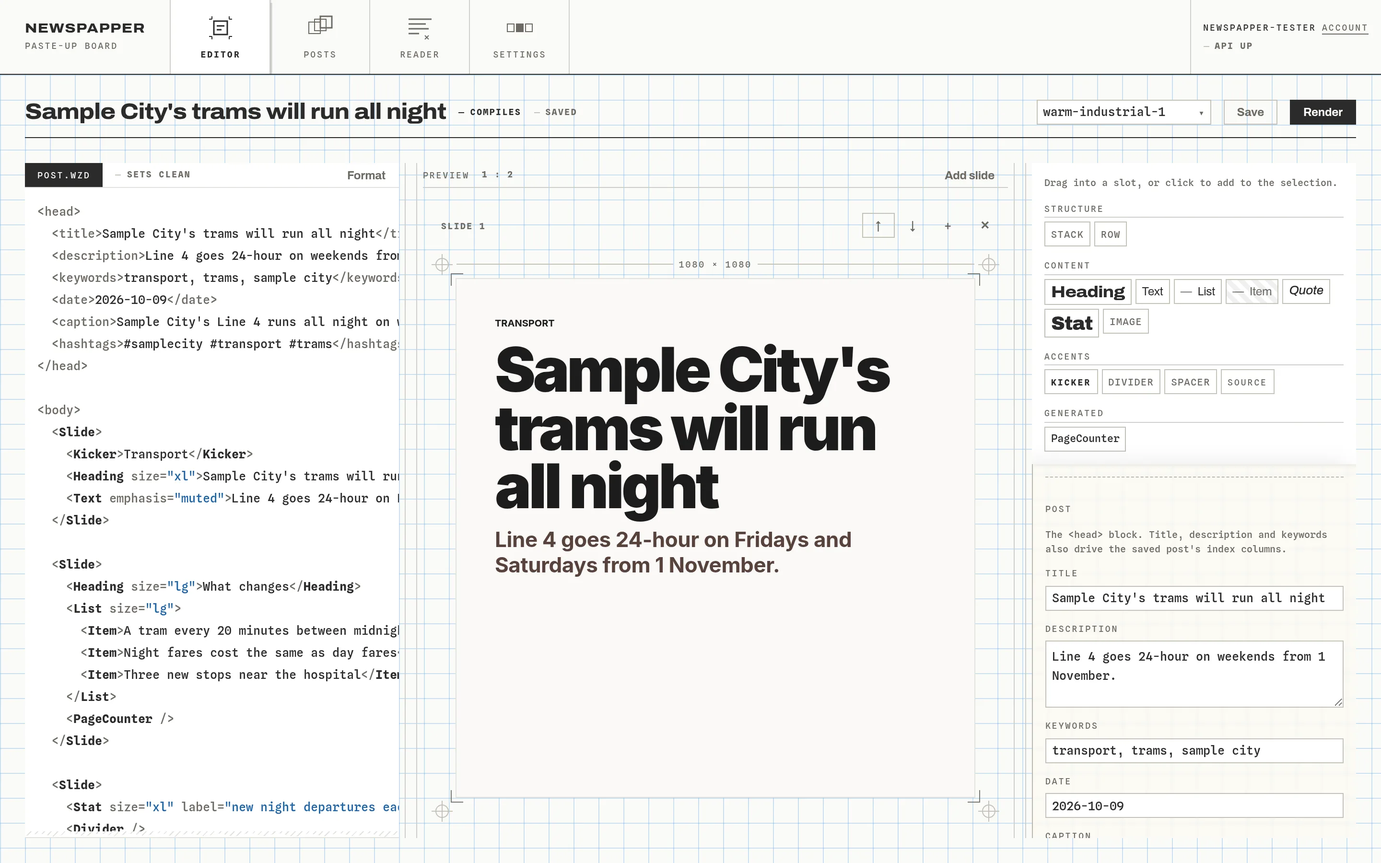
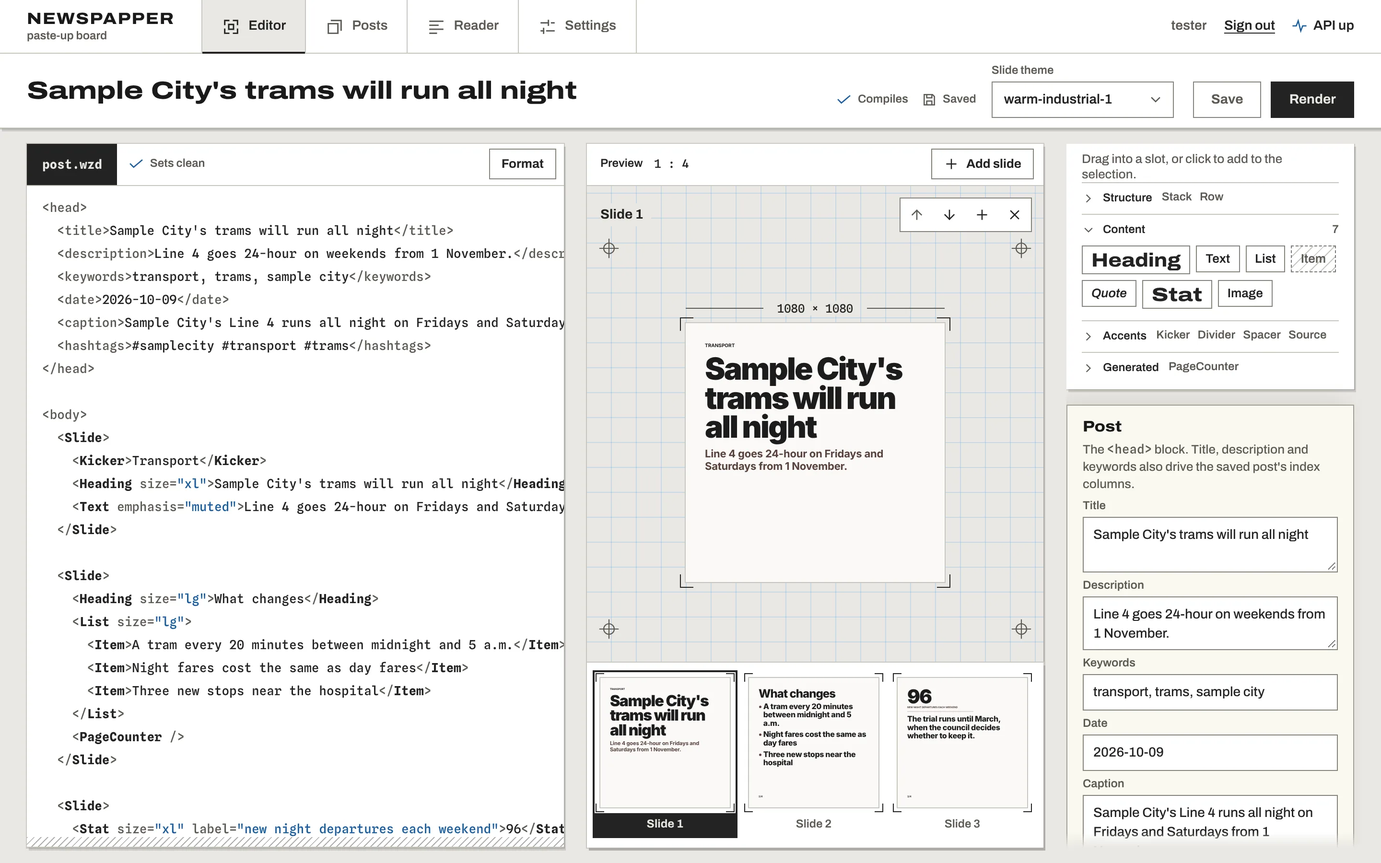
docs: refresh the README and its images after the Contact sheet redesign
- editor.webp, editing.gif and posts.webp retaken on the Contact sheet
  chrome; reader.webp added, with made-up feeds and items on example.test.
  slides.gif kept: the render is unchanged, and post 1 rendered again
  matched its frames.
- README: the stage-and-strip editor, the phone bottom bar, the session
  guard as it is since local accounts, an honest deploy status (the
  redesign and the API restructure are not deployed; the Reader's
  production state is not recorded), the e2e/ folder, and the renderer's
  browser install: `npx playwright` now runs @playwright/test 1.63, whose
  Chromium build the renderer's playwright 1.60 cannot use.
- making-a-post.md: the stage and strip, the phone tabs, the Reader
  screenshot, alt text for the new images.
- shots.md: every row re-dated, post 1's markup, the Reader's data, the
  six real feeds data/sources.json copies into a scratch database and how
  to drop them, the Playwright capture, and the GIF's new beats.

Claude-Session: https://claude.ai/code/session_01RnCo6KceG18CeLXhzKq2En

Changed region(s): [[0.0, 0.0, 1.0, 0.9956], [0.8438, 0.0, 1.0, 0.0622]]

diff --git a/docs/images/shots.md b/docs/images/shots.md
@@ -4,41 +4,92 @@ How each image was made, so the next refresh is a re-run. Re-take an image when 
 
 | File | Shows | How to reach that state | Viewport | Data | Taken |
 |---|---|---|---|---|---|
-| editor.webp | The editor with post 1 open, slide 1 on the canvas | see "Demo data", then open `/newspapper/?post=1` and reload so nothing is selected | 1440×900 @2x | made-up posts | 2026-10-09 |
-| editing.gif | Retyping slide 1's heading, then scrolling the preview to slides 2 and 3 | same post, at `/?post=1` on the dev server; recorded with a Chromium screencast, about 9 s (see "Capture") | 1280×800, scaled to 960 wide | made-up posts | 2026-11-07 |
-| posts.webp | The posts list with three cards, one published | `/newspapper/posts` after the demo posts are rendered and post 2 is published | 1440×700 @2x | made-up posts | 2026-10-09 |
+| editor.webp | The editor with post 1 open, slide 1 on the stage over the strip | see "Demo data", then open `/newspapper/?post=1` and reload so nothing is selected | 1440×900 @2x | made-up posts | 2026-11-16 |
+| editing.gif | Retyping slide 1's heading, then picking slides 2 and 3 from the strip | same post; recorded with a Chromium screencast, about 9 s (see "Capture") | 1280×800, scaled to 960 wide | made-up posts | 2026-11-16 |
+| posts.webp | The posts list with three cards, the middle one published | `/newspapper/posts` after the demo posts are rendered and post 2 is published | 1440×620 @2x | made-up posts | 2026-11-16 |
+| reader.webp | The Reader with five feeds, the unread items and item 1 open | `/newspapper/reader`, then click the first item | 1440×900 @2x | made-up feeds and items | 2026-11-16 |
 | slides.gif | The four JPEGs a render wrote for post 1, 1.6 s each | built from `output/<run>/slide-01.jpg` … `slide-04.jpg` with ffmpeg | 540×540 with a 1 px border | made-up posts | 2026-10-09 |
 
-> The chrome was redrawn on 2026-11-13 (the Contact sheet), so every image in the table above shows the old look and is stale until it is retaken. Screenshots of the new screens come from `e2e/shots.spec.ts` (`SHOTS_DIR=<folder> npx playwright test -c e2e/playwright.config.ts shots`), which runs on the stubbed API of `e2e/fixtures.ts` and needs none of the data below.
+All but `slides.gif` show the Contact sheet chrome of 2026-11-13. `slides.gif` shows the render, which the redesign did not touch: on 2026-11-16 post 1 rendered again from the markup below matched its frames.
+
+For comparing every screen in both themes and at phone width, `e2e/shots.spec.ts` takes them on the stubbed API of `e2e/fixtures.ts` (`SHOTS_DIR=<folder> npx playwright test -c e2e/playwright.config.ts shots`). Those fixtures list real outlets among their feed names, so they are not used for the README.
 
 ## Demo data
 
-The screenshots never use the owner's database or the old runs in `output/`. Those runs date from June 2026, before the Wizard rebuild: they are PNGs from the v3 pipeline, which had a model write the slides, and they name a real politician. So the captures use a throwaway database, filled by hand with made-up posts about "Sample City":
+The screenshots never use the owner's database or the old runs in `output/`. Those runs date from June 2026, before the Wizard rebuild: they are PNGs from the v3 pipeline, which had a model write the slides, and they name a real politician. So the captures use a throwaway database, filled with made-up content about "Sample City".
 
-1. Start the app against scratch paths, with the Reader's background refresh off so nothing fetches the real feeds:
+1. Start the app against scratch paths, with the Reader's background refresh off so nothing fetches a feed. Any free ports do: the UI's `--port` overrides the config, and `PUBLIC_ORIGIN` must name the UI's origin or sign-in is refused as cross-site.
 
    ```bash
-   NEWSPAPPER_DB_PATH=/tmp/np-demo/newspapper.db OUTPUT_DIR=/tmp/np-demo/output \
-   UPLOADS_DIR=/tmp/np-demo/uploads READER_REFRESH_MINUTES=0 npm run dev
+   export NEWSPAPPER_DB_PATH=/tmp/np-demo/newspapper.db OUTPUT_DIR=/tmp/np-demo/output \
+     UPLOADS_DIR=/tmp/np-demo/uploads READER_REFRESH_MINUTES=0 NEWSPAPPER_BASE=/newspapper/ \
+     PORT=3001 PUBLIC_ORIGIN=http://localhost:4321
+   npm run dev --workspace=api
+   npm run dev --workspace=ui -- --port 4321    # in a second terminal, same exports
    ```
 
-2. Sign in with a tester account, never the owner's: make one on the scratch database with `NEWSPAPPER_DB_PATH=/tmp/np-demo/newspapper.db SEED_USERNAME=tester SEED_PASSWORD=… npm run seed --workspace=api`. The header shows the account name, so it must be a tester's. (Until 2026-10-13 this step went through the local Ward.)
-3. Post 1 (`warm-industrial-1`): replace the starter document with a four-slide post titled "Sample City's trams will run all night" (a kicker and `xl` heading, a `lg` list of three items, an `xl` `Stat` of 96 with a divider and text, and a `Quote` with a `Source`). Press Render.
-4. Posts 2 and 3: "The central library opens on Sundays" (`warm-industrial-2`, two slides, rendered and published) and "Riverside Park reopens after flood repairs" (`warm-industrial-3`, two slides, rendered, left as a draft). Creating them through `POST /api/posts` from the signed-in page is quickest.
+   Render needs the Chromium of the `playwright` package (1.60), not the one `npx playwright` installs (1.63); see the main README.
+
+2. Sign in with a tester account, never the owner's. The header shows the account name, so it must be a tester's: `SEED_USERNAME=tester SEED_PASSWORD="$DEMO_PASS" npm run seed --workspace=api` with the same `NEWSPAPPER_DB_PATH`, where `DEMO_PASS` is a random value in your shell (`openssl rand -hex 12`), never in a file.
+3. Opening the database also copies `data/sources.json` into its `sources` table, because the seed runs for whatever file `NEWSPAPPER_DB_PATH` names. That list is the owner's real feeds. Delete those rows before any Reader shot: `DELETE FROM sources WHERE rss_url NOT LIKE '%.example.test/%'`.
+4. Post 1 (`warm-industrial-1`), rendered and left as a draft. This markup is what `editor.webp`, `editing.gif` and `slides.gif` show:
+
+   ```wzd
+   <head>
+     <title>Sample City's trams will run all night</title>
+     <description>Line 4 goes 24-hour on weekends from 1 November.</description>
+     <keywords>transport, trams, sample city</keywords>
+     <date>2026-10-09</date>
+     <caption>Sample City's Line 4 runs all night on Fridays and Saturdays from 1 November.</caption>
+     <hashtags>#samplecity #transport #trams</hashtags>
+   </head>
+
+   <body>
+     <Slide>
+       <Kicker>Transport</Kicker>
+       <Heading size="xl">Sample City's trams will run all night</Heading>
+       <Text emphasis="muted">Line 4 goes 24-hour on Fridays and Saturdays from 1 November.</Text>
+     </Slide>
+
+     <Slide>
+       <Heading size="lg">What changes</Heading>
+       <List size="lg">
+         <Item>A tram every 20 minutes between midnight and 5 a.m.</Item>
+         <Item>Night fares cost the same as day fares</Item>
+         <Item>Three new stops near the hospital</Item>
+       </List>
+       <PageCounter />
+     </Slide>
+
+     <Slide>
+       <Stat size="xl" label="new night departures each weekend">96</Stat>
+       <Divider />
+       <Text size="lg">The trial runs until March, when the council decides whether to keep it.</Text>
+       <PageCounter />
+     </Slide>
+
+     <Slide>
+       <Quote size="lg" by="Sample City Transit">We counted who waits for a tram at 2 a.m. Mostly nurses, bakers and cleaners.</Quote>
+       <Source>Sample City Transit, press note, 2026-10-09</Source>
+       <PageCounter />
+     </Slide>
+   </body>
+   ```
+
+5. Posts 2 and 3, two slides each in the same shape: "The central library opens on Sundays" (`warm-industrial-2`, keywords `libraries, sample city`, rendered and published) and "Riverside Park reopens after flood repairs" (`warm-industrial-3`, keywords `parks, sample city`, rendered, left as a draft). Creating and rendering all three through `POST /api/posts` and `POST /api/posts/:id/render`, with the session cookie from `POST /api/auth/login`, is quickest.
+6. The Reader: five made-up feeds on `example.test` (Harbour Post, Metro Times and Sample City Council under City, Green Notes under Environment, Tech Weekly under Tech) and fourteen made-up items about Sample City, inserted straight into `sources` and `feed_items`, three of them marked read. The first item, "Night trams: the council publishes the Line 4 timetable", has a body of a few paragraphs, a heading and a quote. Never press Refresh: nothing in the Reader shot came from a feed.
 
 Rendering runs the local Chromium only. Nothing in these steps calls a paid or outside service.
 
-The Reader is not shown: with the refresh off it is empty, and filling it means fetching real news feeds.
-
 ## Capture
 
+The stills come from a short Playwright script (not kept in the repo) that adds the tester's session cookie to a context with `viewport` 1440×900 (1440×620 for the posts page), `deviceScaleFactor: 2` and `timezoneId: "Europe/Bucharest"`, waits for network idle and `document.fonts.ready`, then screenshots the viewport. Convert with
+
 ```bash
-agent-browser --session newspapper set viewport 1440 900 2
-agent-browser --session newspapper screenshot /abs/path/editor.png
 ffmpeg -y -loglevel error -i editor.png -c:v libwebp -quality 82 editor.webp
 ```
 
-The editing GIF is recorded with a Chromium screencast (Playwright's CDP session, `Page.startScreencast` as PNG), keeping each frame's timestamp. `agent-browser record` drops idle time, so it is not used. The dev server serves the app at `/` unless `NEWSPAPPER_BASE` is set, so the post is at `http://localhost:4321/?post=1`. The editor autosaves, so before each take put post 1's hand-written markup back with `PUT /api/posts/1`, then load the post and reload it so nothing is selected. The beats: about 0.4 s idle; focus the textarea and select the heading's text (`Sample City's trams will run all night`) with `setSelectionRange`; hold 0.8 s; `keyboard type` "Night trams start on 1 November" one word at a time, 0.2 s between words; hold 0.5 s; `scrollBy({ top: 421, behavior: 'smooth' })` on the preview column, hold 1 s, scroll again, hold 1.1 s. Write the frames with an ffmpeg concat list whose `duration` lines are the gaps between timestamps (0.5 s for the last), and convert with
+The editing GIF is recorded with a Chromium screencast (Playwright's CDP session, `Page.startScreencast` as PNG), keeping each frame's timestamp. The editor autosaves, so before each take put post 1's markup back with `PUT /api/posts/1`, then load the post and reload it so nothing is selected. The beats, at 1280×800: about 0.4 s idle; focus the textarea and select the heading's text (`Sample City's trams will run all night`) with `setSelectionRange`; hold 0.8 s; `keyboard type` "Trams run all night" one word at a time, 0.22 s between words; hold 0.8 s and wait for "Saved"; click the "Slide 2" thumbnail, hold 1.1 s; click "Slide 3", hold 1.3 s. Click a thumbnail on its label: on 2026-11-16 a click on the text inside a thumbnail left the stage on the current slide. Write the frames with an ffmpeg concat list whose `duration` lines are the gaps between timestamps (1.2 s for the last), and convert with
 
 ```bash
 ffmpeg -y -loglevel error -f concat -safe 0 -i list.txt -vf "setpts=1.25*PTS,fps=12,scale=960:-1:flags=lanczos,split[a][b];[a]palettegen=max_colors=128:stats_mode=diff[p];[b][p]paletteuse=dither=bayer:bayer_scale=4" -loop 0 editing.gif

diff --git a/README.md b/README.md
@@ -1,32 +1,36 @@
 # Newspapper
 
-A web app for writing Instagram-style news posts by hand. You write the post in a small markup language, see each slide laid out on a live 1080×1080 canvas as you type, and export the slides as JPEGs with a caption.
+A web app for writing Instagram-style news posts by hand. You write the post in a small markup language, watch each slide set on a live 1080×1080 canvas as you type, and export the slides as JPEGs with a caption.
 
 <p align="center">
-  <img src="docs/images/editor.webp" width="100%" alt="The Newspapper editor: .wzd markup for a made-up post about Sample City's night trams on the left, its first slide set on a 1080×1080 canvas in the middle, and the component palette and post fields on the right">
+  <img src="docs/images/editor.webp" width="100%" alt="The Newspapper editor: .wzd markup for a made-up post about Sample City's night trams on the left, slide 1 set on a 1080×1080 stage in the middle over a strip of the post's slides, and the component palette and post fields on the right">
 </p>
 
-**Status:** Personal project with one user. It runs at `/newspapper/`, behind its own sign-in, with "Sign in with Ward" as a second way in. The Reader, which stores RSS items for you to read, is built and tested locally but not deployed yet.
+**Status:** Personal project with one user. It runs at `/newspapper/`, behind its own sign-in, with "Sign in with Ward" as a second way in. The Contact sheet redesign shown here (2026-11-13) and the API's new structure (2026-11-11) are on `main` and not deployed yet. Whether production already has the Reader, on `main` since 2026-10-09, is not recorded.
 
 ## What it does
 
 - You write a post as a `.wzd` document: a `<head>` with the title, caption and hashtags, then one `<Slide>` per image.
-- The canvas redraws on every keystroke. The linter flags an unknown component, a bad prop value or a missing title as you type.
+- The working slide redraws on every keystroke, above a strip with every slide of the post. The linter flags an unknown component, a bad prop value or a missing title as you type.
 - Render screenshots each slide in headless Chromium and writes 1080×1080 JPEGs, `slides.json` and `caption.txt` to `output/YYYY-MM-DD-N/`.
 - Publish runs a one-time JPEG optimisation pass. Export ZIP downloads the run, ready to upload by hand.
 - The Reader follows your RSS feeds, searches them by keyword and keeps the items you save, with a note, to write from.
 
-No model writes anything, local or remote; you type every word. Props choose from the theme's named scales and there is no raw CSS field, so a post cannot drift off its theme. It does not post to Instagram or schedule anything, and it is built for a desktop browser.
+No model writes anything, local or remote; you type every word. Props choose from the theme's named scales and there is no raw CSS field, so a post cannot drift off its theme. It does not post to Instagram or schedule anything. It is built for a desktop browser; on a phone the screens still fit, with Editor, Posts, Reader and Settings in a bottom bar.
 
 ## Screenshots
 
-![Typing a new headline into the source pane: the heading on the canvas redraws word by word, then the preview scrolls down through slides 2 and 3](docs/images/editing.gif)
+![Selecting the heading in the source pane and typing "Trams run all night": the working slide and its thumbnail redraw word by word, then slides 2 and 3 are picked from the strip and their markup is marked in the source](docs/images/editing.gif)
 
-Select text in the source pane, type, and the canvas follows. The preview below it stacks every slide in the post.
+Select text in the source pane and type, and the slide follows. Pick a thumbnail in the strip to put that slide on the stage.
 
-![Posts page with three made-up posts as cards, each with a thumbnail of its first slide, its keywords and Open, Render, Export ZIP and Publish buttons; one card carries a red Published stamp](docs/images/posts.webp)
+![Posts page with three made-up posts as cards, each with a thumbnail of its latest render, its keywords and Open, Render, Export ZIP, Publish and Delete buttons; the middle card is published, with a red Published stamp and Unpublish in place of Publish](docs/images/posts.webp)
 
-The posts list. Each card has a thumbnail of the latest render; the left one has been published.
+The posts list. Each card shows a thumbnail of the latest render; the middle one has been published.
+
+![The Reader with five made-up feeds grouped by category on the left, the unread items in the middle, and an item about Sample City's night tram timetable open on the right](docs/images/reader.webp)
+
+The Reader, filled with made-up feeds: the feeds by category, the unread items, and one item open with Save to library.
 
 | The four JPEGs one render wrote |
 |---|
@@ -34,7 +38,7 @@ The posts list. Each card has a thumbnail of the latest render; the left one has
 
 ## How it works
 
-It is three npm workspaces, and dependencies run one way: `ui → api → core`. `core` holds the `.wzd` parser, formatter, linter and compiler, the Chromium renderer, RSS fetching and SQLite storage. The compiler also runs in the browser, so the editor's preview and the final render come from the same code. `api` is a Fastify server on port 3001; it checks a Ward session on every `/api/*` route except the health check, and streams search, render and Reader refresh over server-sent events. `ui` is a Vite + React app on port 4321.
+It is three npm workspaces, and dependencies run one way: `ui → api → core`. `core` holds the `.wzd` parser, formatter, linter and compiler, the Chromium renderer, RSS fetching and SQLite storage. The compiler also runs in the browser, so the editor's preview and the final render come from the same code. `api` is a Fastify server on port 3001; it asks for a session (a local account, or Ward when it is configured) on every `/api/*`, `/output/*` and `/uploads/*` request except the health check, and streams search, render and Reader refresh over server-sent events. `ui` is a Vite + React app on port 4321.
 
 ```mermaid
 flowchart LR
@@ -45,21 +49,23 @@ flowchart LR
   jpegs --> out["publish / ZIP"]
 ```
 
-More on the docs site: [architecture](corpus/wiki/architecture.md) and [the `.wzd` language](corpus/wiki/markup.md). A walkthrough of writing one post is in [docs/making-a-post.md](docs/making-a-post.md).
+More in the wiki: [architecture](corpus/wiki/architecture.md) and [the `.wzd` language](corpus/wiki/markup.md). A walkthrough of writing one post is in [docs/making-a-post.md](docs/making-a-post.md).
 
 ## Run it locally
 
-Requires Node 24. `package.json` declares no `engines` field, but the repo is developed and checked on Node 24. The "Sign in with Ward" button is optional and needs Ward's container in `wzd_auth/infrastructure/local`.
+Requires Node 24, the version the container runs; `package.json` declares no `engines` field. The "Sign in with Ward" button is optional and needs Ward's container in `wzd_auth/infrastructure/local`.
 
 ```bash
 npm install
-npx playwright install chromium   # the renderer's browser; npm install does not fetch it
+node node_modules/playwright/cli.js install chromium   # the renderer's browser (Playwright 1.60)
 cp .env.example .env              # Ward's seed.mjs fills in the optional Ward keys
 SEED_USERNAME=you SEED_PASSWORD=... npm run seed --workspace=api   # your local account
 npm run dev                       # API on :3001, UI on :4321
 ```
 
-Open <http://localhost:4321/newspapper/> and sign in with the account you seeded, or with the Ward button when Ward is configured. A Ward that is down never stops the API or a local sign-in. The [configuration](corpus/wiki/configuration.md) page lists every env var, and [commands](corpus/wiki/commands.md) lists every npm script with what it does not check.
+Open <http://localhost:4321/newspapper/> and sign in with the account you seeded, or with the Ward button when Ward is configured. A Ward that is down never stops the API or a local sign-in.
+
+`npm install` fetches no browser. The renderer drives the `playwright` package (1.60). `npx playwright` runs `@playwright/test` (1.63) instead, the runner of the browser specs in `e2e/`, and its `install chromium` fetches a different Chromium build that Render cannot use. The [configuration](corpus/wiki/configuration.md) page lists every env var, and [commands](corpus/wiki/commands.md) lists every npm script, how to run the browser specs, and what each check does not cover.
 
 ## Project layout
 
@@ -68,6 +74,7 @@ Open <http://localhost:4321/newspapper/> and sign in with the account you seeded
 | `core/` | `@newspapper/core`: the `.wzd` language, the renderer, RSS and the Reader, SQLite storage, uploads |
 | `api/` | `@newspapper/api`: the Fastify server, accounts and the session guard, static serving in production |
 | `ui/` | `@newspapper/ui`: the Vite + React app (editor, posts, Reader, settings) |
+| `e2e/` | Playwright specs on a stubbed API: focus rings, reduced motion, phone widths, the theme switch, screenshots |
 | `assets/` | The three slide themes as JSON tokens, and the Inter fonts the renderer loads |
 | `docs/` | The Docusaurus docs site, plus the images and guides this README links to |
 | `infrastructure/` | Dockerfile and compose file for the container |
@@ -77,7 +84,7 @@ Open <http://localhost:4321/newspapper/> and sign in with the account you seeded
 
 - [docs/](docs/README.md): the post walkthrough, the images used here, and how the docs site is built
 - Docs site: `/newspapper/docs/`, rendered from `corpus/` on every build
-- Project wiki: [corpus/](corpus/index.md), with [status](corpus/wiki/status.md) and [decisions](corpus/wiki/decisions.md)
+- Project wiki: [corpus/](corpus/index.md), with [status](corpus/wiki/status.md) and [decisions](corpus/wiki/decisions.md); the redesign is in [decisions-ui](corpus/wiki/decisions-ui.md)
 - Before trusting a green command here, read [green-because-nothing-ran.md](corpus/wiki/green-because-nothing-ran.md)
 
 ## License

diff --git a/docs/making-a-post.md b/docs/making-a-post.md
@@ -4,7 +4,7 @@ One post from an empty editor to a ZIP of slides. This is the walkthrough that u
 
 ## 1. Write it
 
-You land on the editor (`/`) with a starter document already loaded. The left pane is the `.wzd` source, the middle is the live 1080×1080 canvas, and the right holds the component palette and the post's fields.
+You land on the editor (`/`) with a starter document already loaded. The left pane is the `.wzd` source. The middle holds the working slide on a live 1080×1080 stage, with a strip of every slide in the post below it. The right holds the component palette and the post's fields. On a phone the three panes become Source, Preview and Inspector tabs.
 
 A document has two top-level elements, and casing carries the meaning. Lowercase tags are metadata; capitalised tags draw.
 
@@ -35,17 +35,19 @@ A document has two top-level elements, and casing carries the meaning. Lowercase
 </body>
 ```
 
-Each `<Slide>` is one image. Type it, or add components from the palette; the palette writes through the formatter, so the source reads as if a person typed it. Click anything in the preview to select it and change its props. Props choose from named scales (`size`, `align`, `emphasis`) and there is no raw CSS field, on purpose, so a post stays inside its theme. The linter flags an unknown component, a bad prop value or a missing title as you type. Saving is automatic.
+Each `<Slide>` is one image. Type it, or add components from the palette; the palette writes through the formatter, so the source reads as if a person typed it. Click anything on the stage to select it and change its props, or pick a thumbnail in the strip to work on that slide. Props choose from named scales (`size`, `align`, `emphasis`) and there is no raw CSS field, on purpose, so a post stays inside its theme. The linter flags an unknown component, a bad prop value or a missing title as you type. Saving is automatic.
 
-![Typing a new headline into the source pane: the heading on the canvas redraws word by word, then the preview scrolls down through slides 2 and 3](images/editing.gif)
+![Selecting the heading in the source pane and typing "Trams run all night": the working slide and its thumbnail redraw word by word, then slides 2 and 3 are picked from the strip and their markup is marked in the source](images/editing.gif)
 
 ## 2. Add pictures, if you want any
 
-Upload an image from the editor. Newspapper keeps the original, stores a normalised copy, and refers to it by a short name made from the file name, for example `<Image src="harbour-at-dawn-9f3a1c2b" />`.
+Upload an image from the editor. Newspapper keeps the original, stores a normalised copy, and refers to it by a short name made from the file name, such as `harbour-at-dawn-9f3a1c2b`. That name goes in an `<Image>`'s `src` prop.
 
 ## 3. Find something to write about, if you need it
 
-The Reader (`/reader`) follows your RSS feeds and keeps what they publish. Its Search view scans the feeds by keyword, Library holds what you saved with a note, and Sources is where you add feeds, ping them to check they answer, and sort them into categories. `/articles` redirects there. The Reader is not deployed yet; see [status](../corpus/wiki/status.md).
+The Reader (`/reader`) follows your RSS feeds and keeps what they publish. Its Search view scans the feeds by keyword, Library holds what you saved with a note, and Sources is where you add feeds, ping them to check they answer, and sort them into categories. `/articles` redirects there. Whether production has the Reader yet is not recorded; see [status](../corpus/wiki/status.md).
+
+![The Reader with five made-up feeds grouped by category on the left, the unread items in the middle, and an item about Sample City's night tram timetable open on the right](images/reader.webp)
 
 ## 4. Render it
 
@@ -59,4 +61,4 @@ Publish marks the post published and runs a JPEG optimisation pass over the rend
 
 Pick a theme per post in the editor, or set the default in `/settings`. Three ship, `warm-industrial-1`, `-2` and `-3`: one design in three primary colours.
 
-![Posts page with three made-up posts as cards, each with a thumbnail of its first slide, its keywords and Open, Render, Export ZIP and Publish buttons; one card carries a red Published stamp](images/posts.webp)
+![Posts page with three made-up posts as cards, each with a thumbnail of its latest render, its keywords and Open, Render, Export ZIP, Publish and Delete buttons; the middle card is published, with a red Published stamp and Unpublish in place of Publish](images/posts.webp)
